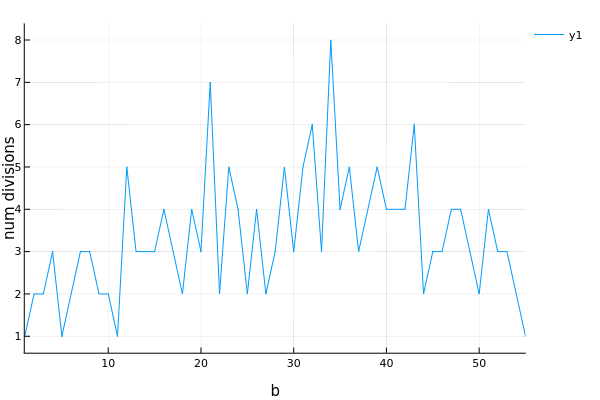
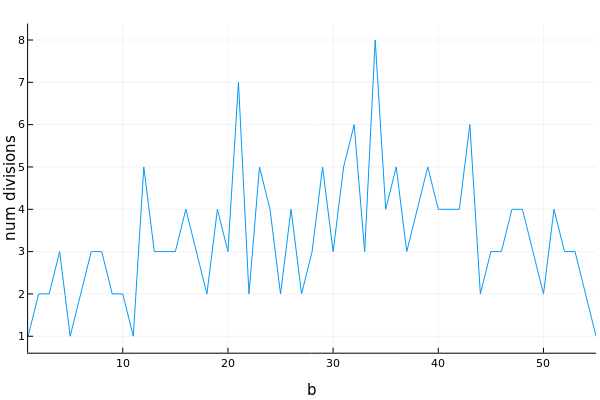
more gcd stuff

diff --git a/2017-09-28-gcd_03.tex b/2017-09-28-gcd_03.tex
@@ -36,6 +36,18 @@ and we arrive at $a \bmod b < \frac{a}{2}$ \qed
 
 This shows that in every iteration of the gcd function (unless $b$ becomes zero), it is called with a second value being smaller than $a/2$. So in the worst case, the algorithm needs to perform $2 \log_2 a$ iterations. If $a$ is a number with $n$ digits, then $a = C 10^n$ with some constant $C$. We can rewrite this as $a = C' 2^n$ ($C'$ being another constant) and arrive at a number of division of $2 \log_2 (C' 2^n) = c n$, where we have also left off any constant terms. Therefore, the number of iterations / divisions of the Euclid Algorithm is linear in the number of digits.
 
+This shows the next Figure where the average number of divisions versus the digit number of both $a$ and $b$ is plotted.
+
+\begin{figure}[H]
+	\includegraphics[scale=0.5]{images/gcd_num_div_avg.png}
+\end{figure}
+
+A histogram showing the occurrence vs number if divisions follows below (for values of $a,b$ with $4$ digits). The distribution looks roughly Gaussian (slightly tilted to the right).
+
+\begin{figure}[H]
+	\includegraphics[scale=0.5]{images/gcd_num_div_hist.png}
+\end{figure}
+
 The worst case complexity is reached in case $a$ and $b$ are two consecutive Fibonacci numbers. The following Figure shows the number of iterations / divisions  for a fixed value of $a=55$ (a Fibonacci number) versus $b$. It can be clearly seen that the maximum is reached for $b=34$, which is the preceding Fibonacci number. Another peak is at$b=21$ which is also a Fibonacci number. Towards the edges of the graph, the number of iterations / divisions falls off; in these cases the difference between $a$ and $b$ is so large that the algorithm stops after a few iterations. E.g. $\gcd(31,2) = \gcd(2,1) = \gcd(1,0) = 1$.
 
 
@@ -61,3 +73,16 @@ Now let us calculate the gcd:
 \eee
 
 where we used the results from before. We can continue this game until we reach $\gcd(F_1, F_0) = \gcd(1,1) = 1$. This shows that two consecutive Fibonacci numbers are co-prime.
+
+Starting with this fact, one can somehow prove that therefore the complexity of Euclid's algorithm is maximized when the gcd of two consecutive Fibonacci numbers is calculated.
+
+
+\subsection{Further GCD Characteristics}
+
+Above we have shown that two consecutive Fibonacci numbers are co-prime; in this Section we want to prove the more general statement
+
+\bee
+\gcd(F_a, F_b) = F_{\gcd(a,b)}
+\eee
+
+
